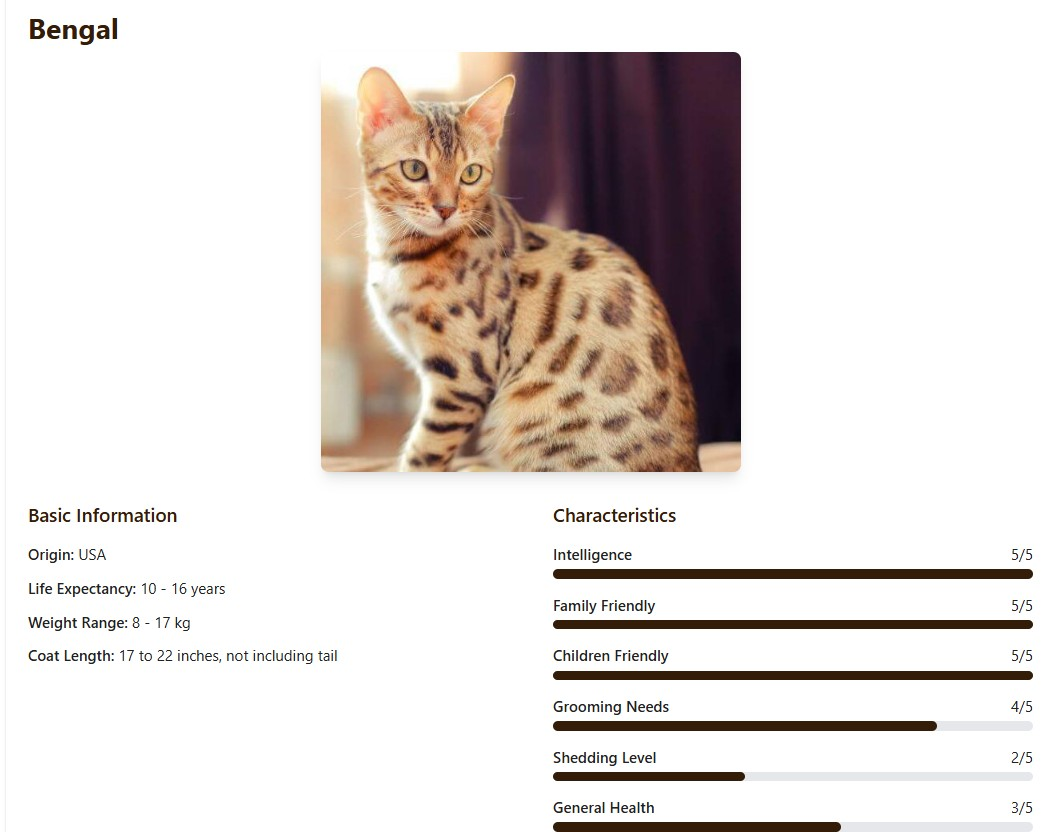
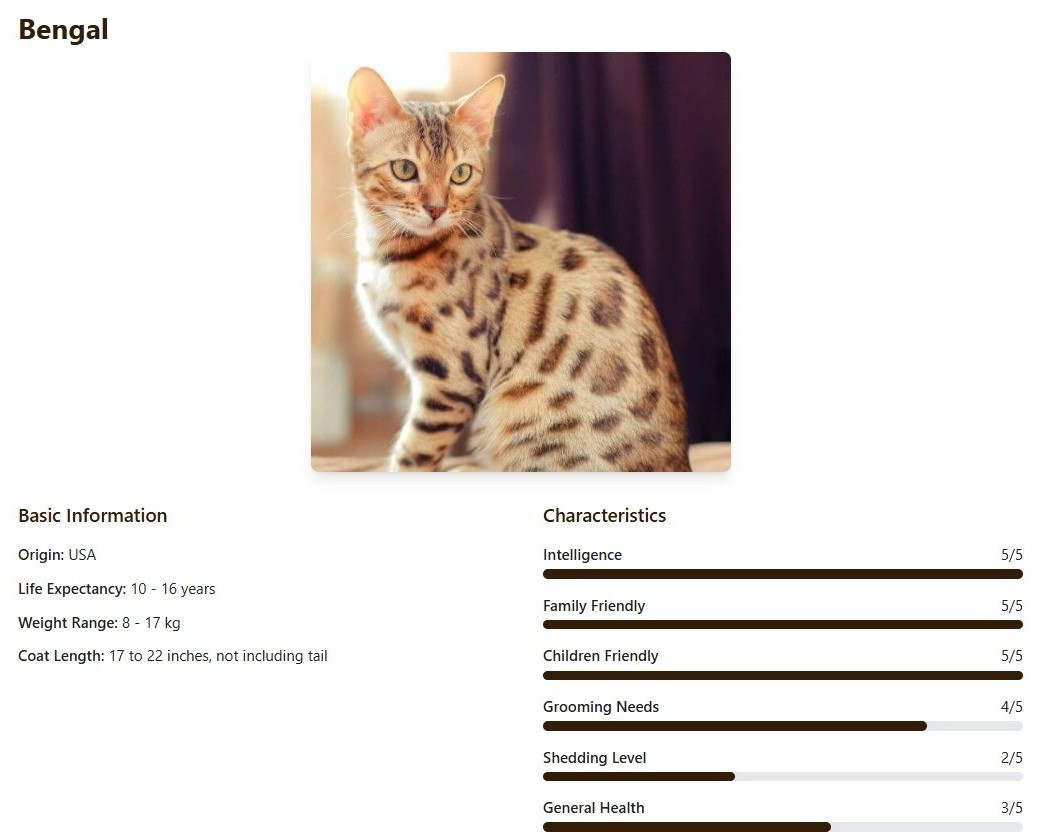
Added changing profiles on Home page

diff --git a/frontend/src/components/Home/imageCycle.tsx b/frontend/src/components/Home/imageCycle.tsx
@@ -1,0 +1,53 @@
+import { useCallback, useEffect, useState } from 'react';
+
+interface ImageCycleProp {
+    profile: string[];
+}
+
+const ImageCycle: React.FC<ImageCycleProp> = ({ profile }) => {
+const [imageIndex, setImageIndex] = useState(0);
+
+const cycleImages = useCallback(() => {
+    setImageIndex((prevIndex) => {
+    const nextIndex = prevIndex === profile.length - 1 ? 0 : prevIndex + 1;
+    return nextIndex;
+    });
+},[profile.length]);
+
+const reverseCycleImages = useCallback(() => {
+    setImageIndex((prevIndex) => {
+    const nextIndex = prevIndex === 0 ? profile.length - 1 : prevIndex - 1;
+    return nextIndex;
+    });
+},[profile.length]);
+
+useEffect(() => {
+    const interval = setInterval(() => {
+    cycleImages();
+    }, 5000);
+
+    return () => clearInterval(interval);
+}, [cycleImages]);
+
+return (
+    <div className="relative bg-white rounded-lg overflow-hidden border-4">
+        <div className="flex transition-transform duration-500 ease-in-out" style={{transform: `translateX(-${imageIndex * 100}%)`}}>
+            {profile.map((img, index) => (
+                <div key={index} className="flex-shrink-0 w-full" 
+                style={{ transition: 'opacity 0.5s ease-in-out', opacity: imageIndex === index ? 1 : 0 }}>
+                    <img 
+                        src={img} 
+                        alt="profile" 
+                        className="w-full max-h-[50vh] rounded-lg object-contain"
+                    />
+                </div>
+            ))}
+        </div>
+        
+        <button onClick={cycleImages} className = "absolute inset-y-0 right-0 font-light text-black text-4xl opacity-10 hover:opacity-100">&gt;</button>
+        <button onClick={reverseCycleImages} className = "absolute inset-y-0 left-0 font-light text-black text-4xl opacity-10 hover:opacity-100">&lt;</button>
+        
+    </div>
+);};
+
+export default ImageCycle;

diff --git a/frontend/src/components/Home/Home.tsx b/frontend/src/components/Home/Home.tsx
@@ -5,6 +5,9 @@ import dog1 from './home-dog-image.webp';
 import profile1 from './profile.jpg';
 import { Link } from 'react-router-dom';
 import dogImage from './dogimage.png'; 
+import ImageCycle from './imageCycle';
+import profile2 from './profile2.jpg';
+import profile3 from './profile3.jpg'
 
 const Home = () => {
   const [opacity, setOpacity] = useState(1);
@@ -84,7 +87,9 @@ const Home = () => {
 
         <div className="flex flex-col lg:flex-row justify-between mt-12 bg-tertiary rounded-lg text-white mt-20">
           <div className="lg:w-1/2 p-4">
-            <img src={profile1} alt="profile" className="w-full object-cover rounded-lg" />
+
+            <ImageCycle profile={[profile1, profile2, profile3]} />
+
           </div>
           <div className="lg:w-1/2 p-4 flex flex-col justify-center">
             <h2 className="text-3xl font-bold mb-4 text-primary">Learn More About Your Pet</h2>
@@ -96,7 +101,6 @@ const Home = () => {
           <h2 className="text-3xl font-bold text-primary">Share With Others</h2>
           <p className="text-lg text-primary">Download your pet's profile as a PDF and share it with friends and family.</p>
         </div>
-
       </div>
     </div> 
   );
